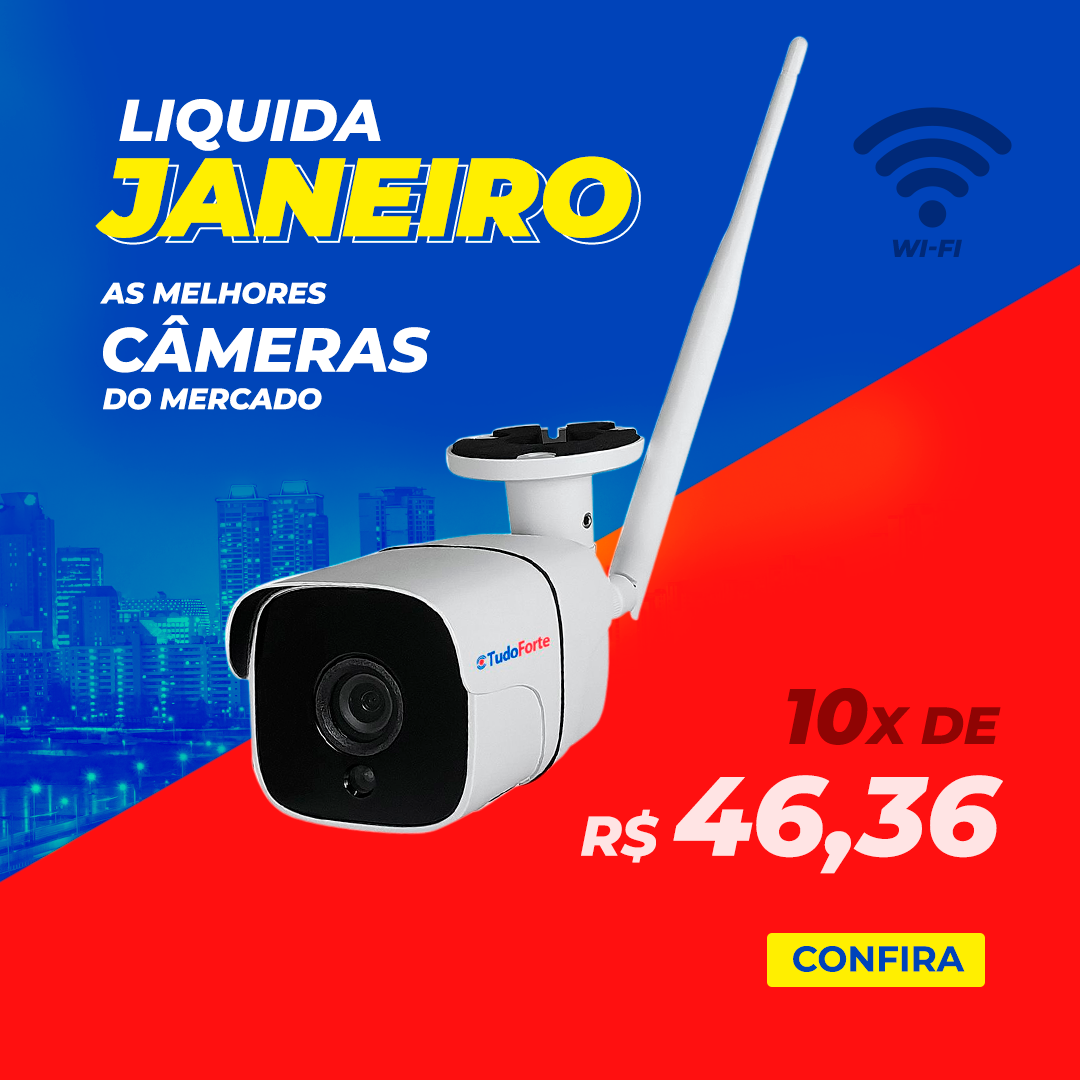
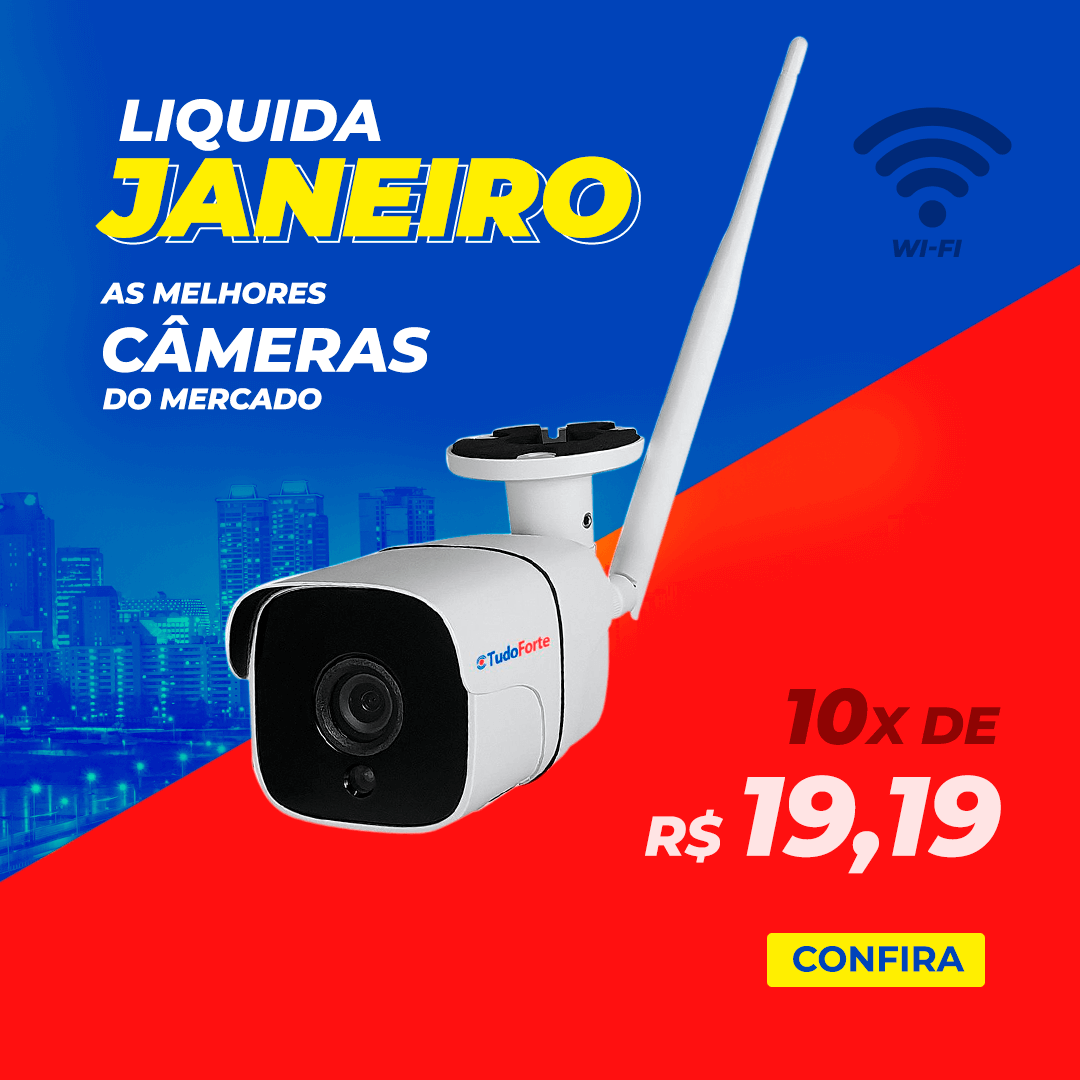
ajuste

Changed region(s): [[0.5194, 0.7028, 0.9472, 0.825]]

diff --git a/index-layout-novo-estilo.html b/index-layout-novo-estilo.html
@@ -35,7 +35,7 @@
       <tr>
         <td>
           <div style="max-width:600px;width:100%"><a
-              href="https://www.tudoforte.com.br/kit-2-cameras-wifi-ip-full-hd-2mp-externa-ip66-escuta-e-reproduz-audio-visao-noturna-20-metros-gravacao-em-cartao-sd-visualizacao-no-celular"
+              href="https://www.tudoforte.com.br/camera-ip-wifi-externa-full-hd-1080p-2mp-grava-e-reproduz-audio-visao-noturna-20-metros-grava-em-cartao-sd-visualizacao-no-celular"
               target="_blank"><img cellpadding="0" cellspacing="0" alt="Kit de Câmeras de Segurança"
                 style="display:block;border-radius:5px 5px 5px 5px;width:600px;height:auto;border-width:0px;border-style:solid"
                 src="img/camera.png" class="CToWUd"> </a></div>
